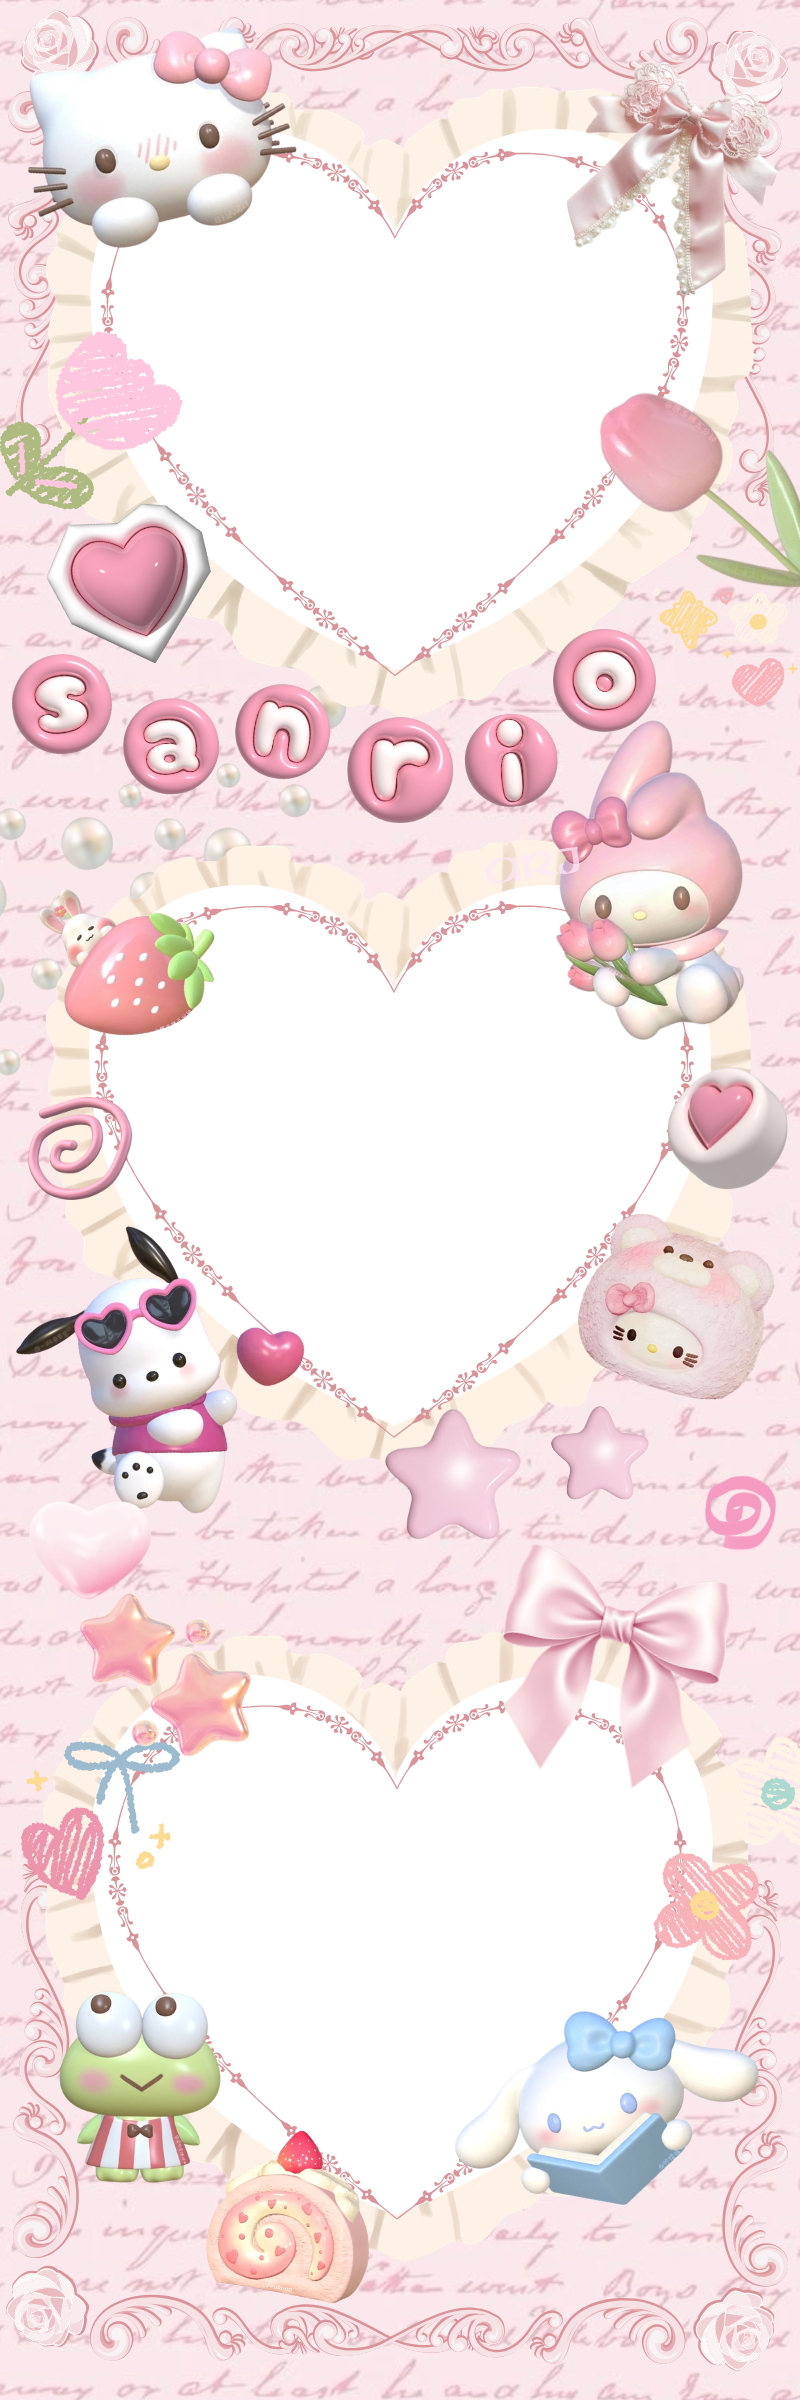
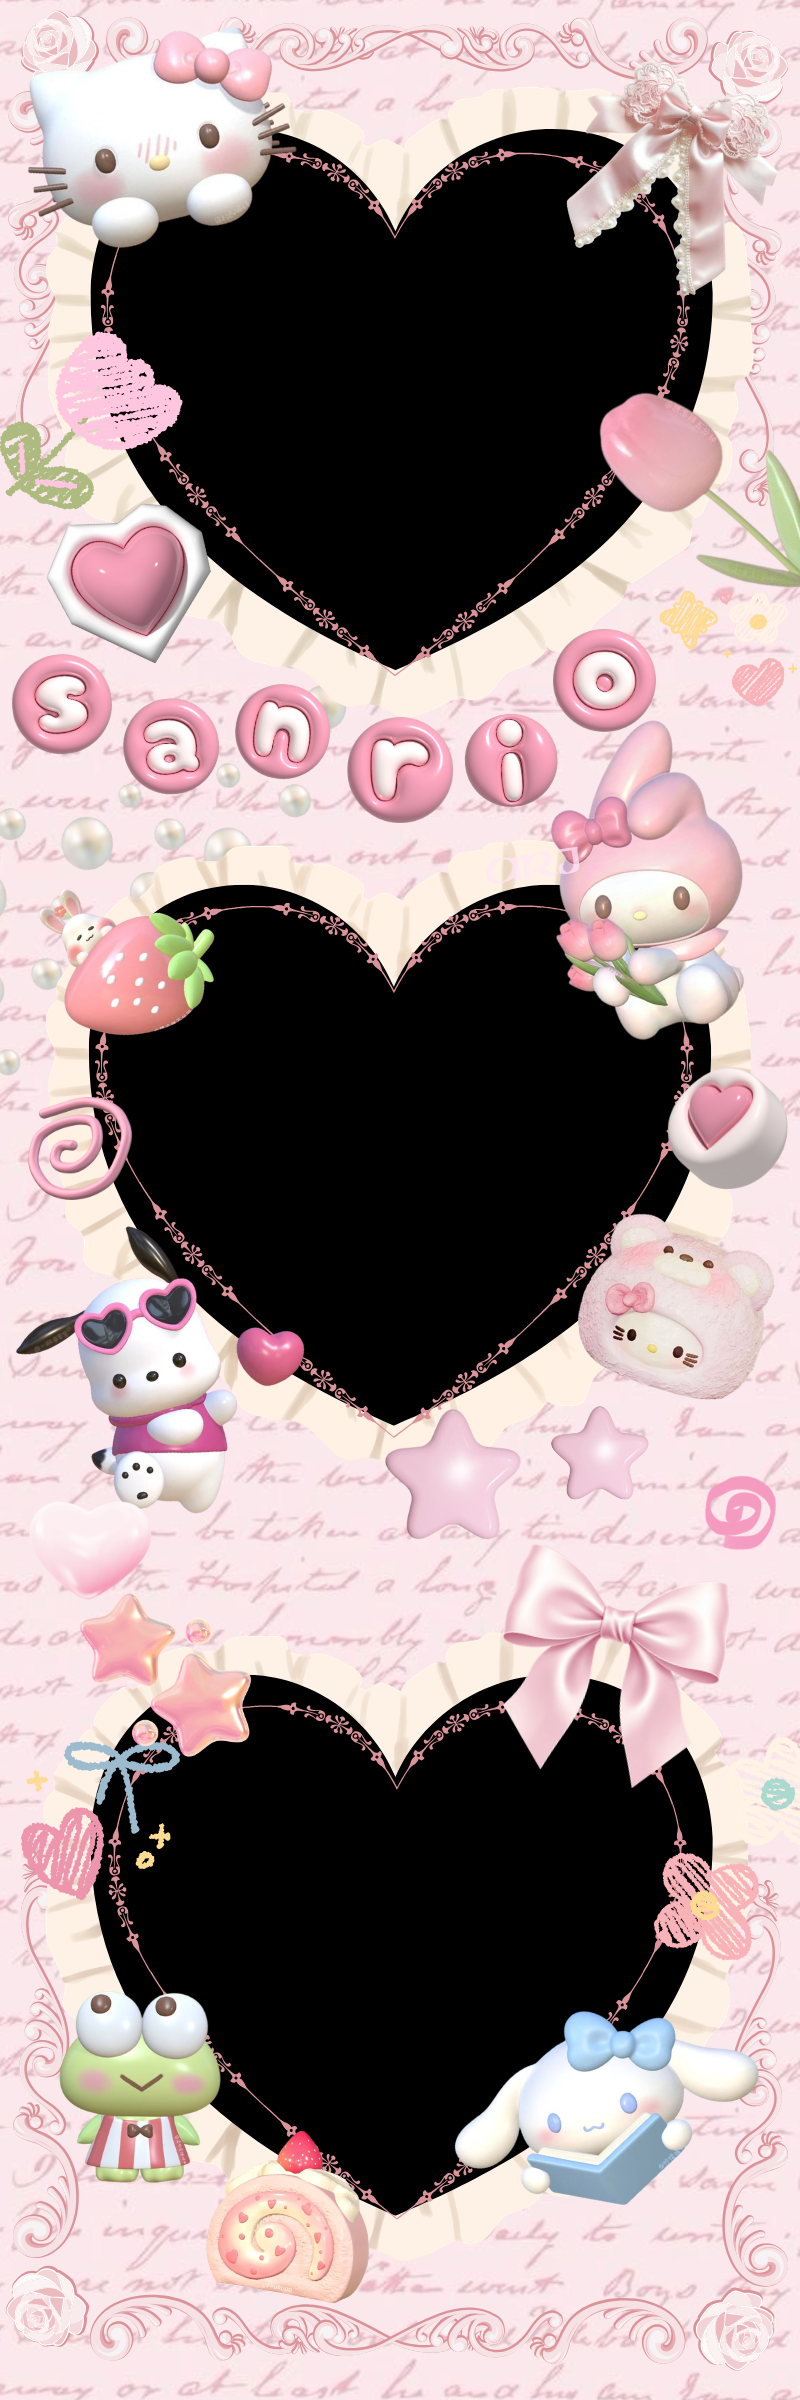
sanrio

diff --git a/index.html b/index.html
@@ -1165,7 +1165,7 @@
             // 1. Photos
             drawPhotos();
 
-            // 2. SanrioLayer1 (Remove Black)
+            // 2. SanrioLayer1 (Remove White)
             const sanrioL1 = document.getElementById('sanrio-layer1');
             if (sanrioL1) {
                 const tempC = document.createElement('canvas');
